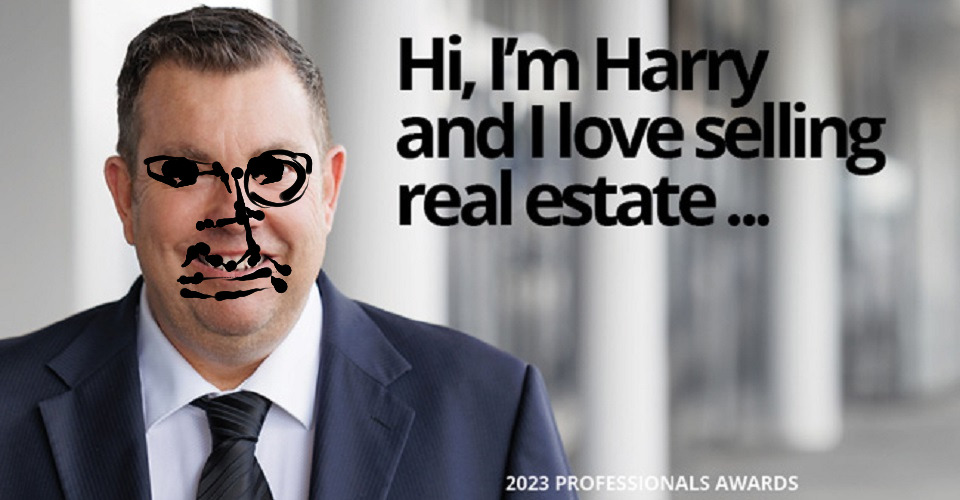
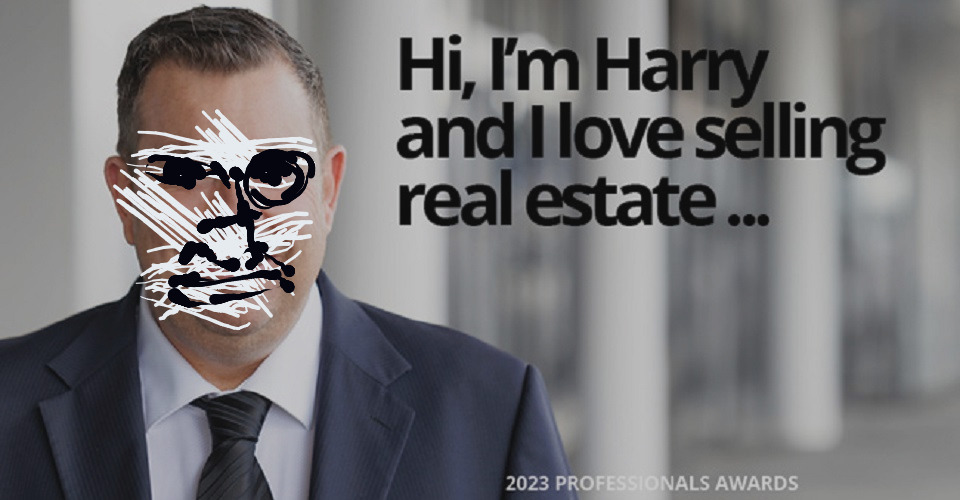
Final

diff --git a/face.js b/face.js
@@ -4,23 +4,21 @@
  */  
 
 // remove this or set to false to enable full program (load will be slower)
-var DEBUG_MODE = true;
+// var DEBUG_MODE = true;
 
 // this can be used to set the number of sliders to show
 var NUM_SLIDERS = 2;
 
-// other variables can be in here too
-// here's some examples for colors used
-const stroke_color = [95, 52, 8];
-/*
- * some text here
- */
+//  Brush detail sets the quality of the brush strokes, a high value is slower but looks better
 let BrushDetail = 100;
 let iEyeL = 3;
 let iEyeR = 3;
 let iNose = 1;
 let iMouth = 1;
+let bezierJoin  = 0;
+let coords;
 
+//  Here are the bezier coordinates for each face part
 let eyesCoords  = [
   [-6.169677419,-1.227567568,-6.169677419,-1.227567568,-3.498387097,-1.367027027,-1.901612903,-1.357837838,-0.30483871,-1.348648649,0.864193548,-1.328648649,1.76483871,-1.390540541],
   [2.022580645,0.386486486,-1.765806452,1.057837838,-2.138709677,1.197297297,-3.511612903,1.336756757,-2.326129032,1.127027027,-2.138709677,1.197297297,-2.951290323,1.267567568,-0.301612903,-0.192162162,0.764516129,-0.694594595,0.830645161,-1.197027027,1.866129032,0.144594595,3.022580645,0.927027027,2.022580645,0.386486486,-1.765806452,1.057837838,-2.138709677,1.197297297,-3.138709677,1.197297297],
@@ -44,10 +42,7 @@ let mouthCoords = [
   [2.763870968,-0.344594595,2.561290323,-1.175135135,2.065483871,-1.168918919,1.569677419,-1.162432432,0.720967742,-1.521081081,-0.382903226,-1.301081081,-1.487096774,-1.080810811,-2.613548387,-0.822702703,-2.636129032,-0.256486486,-2.658709677,0.31,-2.290645161,0.838648649,-1.772258065,1.146756757,-1.254193548,1.455135135,1.457096774,1.014864865,1.892903226,1.058648649,2.328387097,1.102702703,1.314516129,-1.571621622,1.314516129,-1.571621622,1.314516129,-1.571621622,2.163225806,0.630810811,1.892903226,0.901351351,1.622258065,1.172162162,0.646129032,1.159459459,0.563548387,1.109189189,0.480645161,1.058648649,0.022580645,-1.288378378,0.04516129,-1.546486486,0.067741935,-1.804324324,0.345483871,0.083513514,0.353225806,0.549189189,0.360645161,1.014864865,0.187741935,1.26027027,-0.420645161,1.165675676,-1.028709677,1.071351351,-1.336774194,-0.885675676,-1.419354839,-1.206486486,-1.501935484,-1.527567568,-0.968709677,-0.124324324,-1.066451613,0.026756757,-1.164193548,0.177837838,-2.388387097,0.64972973,-2.448387097,0.549189189,-2.508387097,0.448378378,-0.473225806,0.114864865,-0.037419355,0.102162162,0.398064516,0.08972973,1.862580645,0.039459459,2.065483871,0.08972973,2.268387097,0.14,2.658709677,0.165135135,2.658709677,0.165135135],
   [-2.46,-0.39,-2.4044,-0.496,-2.22,-0.63,-2.0356,-0.764,-1.2382,-1.05,-0.54,-1.11,0.1582,-1.171,1.0596,-1.096,1.38,-0.87,1.7004,-0.645,2.1272,-0.168,1.86,0.09,1.5928,0.348,1.3967,0.535,0.9,0.57,0.4033,0.605,-0.0427,0.684,-0.54,0.57,-1.0373,0.455,-1.2615,-0.014,-1.26,-0.15,-1.2585,-0.286,-1.0272,-0.767,-0.3,-0.87,0.4272,-0.974,1.1736,-0.951,1.38,-0.63,2.0449,0.403,1.8195,0.818,1.419,0.986,1.0185,1.153,0.2036,1.136,-0.3,1.29,-0.8679,1.463,-0.7558,1.463,-0.78,1.5300000],
 ];
-let bezierJoin  = 0;
-let coords;
 
-// example of a global function
 // given a segment, this returns the average point [x, y]
 function segment_average(segment) {
   let sum_x = 0;
@@ -60,17 +55,13 @@ function segment_average(segment) {
   return [sum_x / s_len , sum_y / s_len ];
 }
 
-// This where you define your own face object
 function Face() {
   // these are state variables for a face
-  // (your variables should be different!)
-  this.detailColour = [204, 136, 17];
-  this.mainColour = [51, 119, 153];
-  this.mouth_size = 1;  // range is 0.5 to 8
-  this.vEmo = 4;  // range is 2 to 4
-  this.vAge  = 50; // range is 0 to 100
+  this.detailColour = [5,5,15];
+  this.backColour = [230,235,240];
+  this.vAge  = 50; // Age setting: range is 0 to 100
+  this.vEmo = 4;  // Emotional Valence (sad/happy) setting: range is 2 to 4
   this.faceDirection  = 0;  // is either 0 or 1 (0 is facing left, 1 is facing right)
-
 
   /*
    * Draw the face with position lists that include:
@@ -78,13 +69,7 @@ function Face() {
    *    bottom_lip, top_lip, nose_tip, nose_bridge, 
    */  
   this.draw = function(positions) {
-    // console.log()
-    // head
     ellipseMode(CENTER);
-    stroke(stroke_color);
-    fill(this.mainColour);
-    // ellipse(segment_average(positions.chin)[0], 0, 3, 4);
-    noStroke();
 
     if (segment_average(positions.chin)[0] > 0){
       this.faceDirection  = 0;
@@ -103,6 +88,27 @@ function Face() {
     this.left_brow_height  = (left_eye_pos[1] - segment_average(positions.left_eyebrow)[1]);
     this.right_brow_height = (right_eye_pos[1] - segment_average(positions.right_eyebrow)[1]);
 
+    let pointA;
+    let pointB;
+    //head
+    pointA  = [positions.left_eye[0][0],positions.chin[6][1]];
+    pointB  = positions.chin[9];
+    Scribble(pointA,pointB,this.vEmo,this.backColour);
+    pointA  = positions.chin[10];
+    pointB = [positions.nose_bridge[1][0]-0.1,positions.nose_bridge[3][1]];
+    Scribble(pointA,pointB,this.vEmo,this.backColour);
+    pointA  = segment_average(positions.bottom_lip);
+    pointB = [positions.chin[4][0],positions.chin[1][1]];
+    Scribble(pointA,pointB,this.vEmo,this.backColour);   
+    pointA  = [positions.chin[6][0]-0.2,positions.chin[5][1]];
+    pointB = positions.chin[13];
+    Scribble(pointA,pointB,this.vEmo,this.backColour);
+    pointA  = [positions.left_eye[0][0]-0.2,positions.right_eye[3][1]];
+    pointB = positions.chin[16];
+    Scribble(pointA,pointB,this.vEmo,this.backColour);
+    pointA  = [positions.right_eye[3][0]-0.2,positions.nose_bridge[1][1]];
+    pointB = [0,-1.5];
+    Scribble(pointA,pointB,this.vEmo,this.backColour);
 
     //stroke parameters
     stroke('black');
@@ -189,7 +195,7 @@ function Face() {
     let mouthTransY = 0 + mouth_posY;
     let mouthOffsetX = 0;
     let mouthOffsetY = 0;
-    let mouthScale = this.mouthWidth/3-0.2;
+    let mouthScale = this.mouthWidth/2.8-0.2;
     let mouthScaleX = 1;
     if (iMouth==1){
       mouthScaleX *= -1;
@@ -201,7 +207,6 @@ function Face() {
     this.DrawShape(coords,   mouthTransX,mouthTransY,    mouthOffsetX,mouthOffsetY,    mouthScale,mouthScaleX,1,0,bezierJoin);
   }
 
-  // example of a function *inside* the face object.
   // this draws a segment, and do_loop will connect the ends if true
   this.draw_segment = function(segment, do_loop) {
     for(let i=0; i<segment.length; i++) {
@@ -226,7 +231,7 @@ function Face() {
     // stroke('black');
     // strokeWeight(this.vEmo/20);
     noStroke();
-    fill(0,map(this.vAge,0,100,255,40));
+    fill(this.detailColour,map(this.vAge,0,100,255,40));
 
     translate(dotTransX, dotTransY);
     scale(shapeScale*shapeScaleX,shapeScale*shapeScaleY);
@@ -251,7 +256,6 @@ function Face() {
   this.setProperties = function(settings) {
     this.vAge = int(map(settings[0], 20, 80, 20, 80, true));
     this.vEmo = map(settings[1], 20, 100, 2, 4, true);
-    // this.mouth_size = map(settings[2], 0, 100, 0.5, 8);
   }
 
   /* get internal properties as list of numbers 0-100 */
@@ -259,102 +263,32 @@ function Face() {
     let settings = new Array(2);
     settings[0] = map(this.vAge, 0, 100, 0, 100);
     settings[1] = map(this.vEmo, 2, 4, 0, 100);
-    // settings[2] = map(this.mouth_size, 0.5, 8, 0, 100);
     return settings;
   }
 }
 
-function Scribble(){
-  
+function Scribble(pointA,pointB,vEmo,ink){
+  push();
+  let ldiv  = 20;
+  let lcount  = 10;
+  let ldist = 2;
+  let nDetail = 15;
+  let nAmp  = 7;
+  // let = 0.1;
+  stroke(ink);
+  // strokeWeight(1);
+  translate(-ldist/2,-ldist/8);
+  for (let h=0; h<lcount; h+=1){
+    translate((ldist/lcount/2)*noise(h),-(ldist/lcount)*noise(h+100));
+    for (let i=0; i<ldiv; i+=1){
+      strokeWeight(vEmo/30*map(noise(h,i/10),0,1,0.1,1.3));
+      line(
+        lerp(pointA[0] + noise((h*20+i)/nDetail)*nAmp/5,pointB[0]   +         noise((h*20+i)/nDetail+100)*nAmp/5,i/(ldiv)),
+        lerp(pointA[1] + noise((h*20+i)/nDetail)*nAmp/5,pointB[1]   +         noise((h*20+i)/nDetail+100)*nAmp/5,i/(ldiv)),
+        lerp(pointA[0] + noise((h*20+i)/nDetail+1/nDetail)*nAmp/5,pointB[0] + noise((h*20+i)/nDetail+100+1/nDetail)*nAmp/5,(i+1)/(ldiv)),
+        lerp(pointA[1] + noise((h*20+i)/nDetail+1/nDetail)*nAmp/5,pointB[1] + noise((h*20+i)/nDetail+100+1/nDetail)*nAmp/5,(i+1)/(ldiv))
+      );
+    }
+  }
+  pop();
 }
-
-
-// function ololodrawface(iEyeL,sPupil) {
-//   let bezierJoin = 0;
-
-//   //stroke parameters
-//   stroke('black');
-//   strokeWeight(0.1);
-//   fill('black');
-
-//   /*
-  
-//       part-TransX     =   moves the face part after the scale has been applied
-//       part-TransY     =   ~
-//       part-OffsetX    =   shifts the origin of the body part, useful for shifting where the part scales from
-//       part-OffsetY    =   ~
-//       part-Scale      =   scales the face part
-
-//   */
-
-//   //EYE LEFT
-//   let coords  =   split(eyesCoords[iEyeL],',');
-//   let L_eyeTransX = 0;
-//   let L_eyeTransY = 0;
-//   let L_eyeOffsetX = 1;
-//   let L_eyeOffsetY = 0;
-//   let L_eyeScale  = 1;
-//   // define if the gaps in the beziers should be bridged, as some shapes contain disjointed parts
-//   if (iEyeL==6) {
-//       bezierJoin = 2;
-//   }
-
-//   DrawShape(coords,   L_eyeTransX,L_eyeTransY,    L_eyeOffsetX,L_eyeOffsetY,    L_eyeScale,1,1,0,bezierJoin);
-
-//   //PUPIL LEFT
-//   coords  =   split(pupilCoords[0],',');
-//   let L_pupilTransX = -0.7;
-//   let L_pupilTransY = 0.7;
-//   let L_pupilOffsetX = -1.5;
-//   let L_pupilOffsetY = -0.2;
-//   let L_pupilScale  = sPupil/100+0.5;
-
-//   DrawShape(coords,   L_pupilTransX,L_pupilTransY,    L_pupilOffsetX,L_pupilOffsetY,    L_pupilScale,1,1,0,0);
-
-//   //EYE RIGHT
-//   coords  =   split(eyesCoords[iEyeL],',');
-//   let R_eyeTransX = 3;
-//   let R_eyeTransY = 0;
-//   let R_eyeOffsetX = 0;
-//   let R_eyeOffsetY = 0;
-//   let R_eyeScale  = 1;
-//   let R_eyeScaleX  = -1;
-//   let R_eyeScaleY  = 1;
-//   let R_eyeTilt  = 0;
-//   // define if the gaps in the beziers should be bridged, as some shapes contain disjointed parts
-//   if (iEyeL==6) {
-//       bezierJoin = 2;
-//   }
-
-//   DrawShape(coords,   R_eyeTransX,R_eyeTransY,    R_eyeOffsetX,R_eyeOffsetY,    R_eyeScale,R_eyeScaleX,R_eyeScaleY,   R_eyeTilt ,bezierJoin);
-
-//   //PUPIL RIGHT
-//   coords  =   split(pupilCoords[0],',');
-//   let R_pupilTransX = 3;
-//   let R_pupilTransY = 0;
-//   let R_pupilOffsetX = -1.5;
-//   let R_pupilOffsetY = -0.5;
-//   let R_pupilScale  = sPupil/100+0.4;
-
-//   DrawShape(coords,   R_pupilTransX,R_pupilTransY,    R_pupilOffsetX,R_pupilOffsetY,    R_pupilScale,1,1,0,0);
-
-//   //NOSE
-//   coords  =   split(noseCoords[iNose],',');
-//   let noseTransX = 1;
-//   let noseTransY = 1;
-//   let noseOffsetX = 0;
-//   let noseOffsetY = 0;
-//   let noseScale  = 1;
-
-//   DrawShape(coords,   noseTransX,noseTransY,    noseOffsetX,noseOffsetY,    noseScale,1,1,0,bezierJoin);   
-
-//   //MOUTH
-//   coords  =   split(mouthCoords[iMouth],',');
-//   let mouthTransX = 1;
-//   let mouthTransY = 6;
-//   let mouthOffsetX = 0;
-//   let mouthOffsetY = 0;
-//   let mouthScale = 1;
-
-//   DrawShape(coords,   mouthTransX,mouthTransY,    mouthOffsetX,mouthOffsetY,    mouthScale,1,1,0,bezierJoin);
-// }

diff --git a/system_runner.js b/system_runner.js
@@ -156,7 +156,7 @@ function setup () {
   facePointsCheckbox.parent('checkbox3Container');
 
   if(!DEBUG_MODE) {
-    sliderTint = createSlider(0, 100, 10);
+    sliderTint = createSlider(0, 100, 70);
     sliderTint.parent("sliderTintContainer");
 
     var interpButton = createButton('interpolate');

diff --git a/README.md b/README.md
@@ -1,17 +1,6 @@
 ### Nathan Russell MDDN342 Project 3: Data Mappings
-MY design intentions with this project make no detour from those in project 2. I will design a program that can map a convincingly hand-drawn face onto photos of human faces with machine learning.
-
-Many details in the human subjects will affect the parameters of the design including age and smile. The parameters changed include jitter, brush size and brush blemishes.
-
-v2
-Many days were lost trying to adapt the loadStrings function from my Project 2 code to Project 3. This function was supposed to load the arrays of coordinates for the shapes of different parts of the face. I concluded that because of the hierarchy of this project, it just isn't possible to load strings with the preload function like I usually would, because for some reason anything loaded here would be outside of the scope of any functions run afterward. Maaybe if I spent more time I could figure out a fix for this but otherwise it seems a better use of my time to just hardcode the coordinates into the face.js script and move on.
-Given the context of the delivery for this project, I see no significant disadvantages to hardcoding the coordinates outside of the aesthetics of how the code looks.
-
-v3
-THe model has been trained on all of the images to identify both age and emotional valence (sadness/happiness). A higher age will result in the brush strokes being more jittery, and a higher emotional valence results in a fuller brush stroke.
-
-v4
-Further improved how the trained data controls the face values. The mouth is now reactive to the pose of the image, how much open the mouth is changes the mouth shape to be drawn.
-
-v5
-Eyes are now also reactive.
+Making a design look hand drawn in p5.js is quite a challenge but once the brush stroke has simulated, with every point in the stroke plotted, all it takes to make the design convincing is a bit of noise to move all those points around.
+I trained the program to quess two values in someones face: age and emotional valence (positive/negative emotions).
+With all the noise mapped to a single variable controlled by age, this made the hand drawn look hit even harder. The older the face appears, the more jittered the strokes become. Emotional valence controls the size of the brush stroke. A fuller stroke feels more happy whereas a thinner stroke feels more empty of emotion.
+I wanted to create the feeling of graffiti on a billboard, so the images I chose were all taken out of ads for real estate agents.
+The theme of real estate agents might seem totally out of the line with the aesthetic I chose, but that's exactly the point. The juxtaposition between the very formal serious people with feral abstract scribbles creates a composition that somehow feels even more chaotic than any other images I could have chosen.
